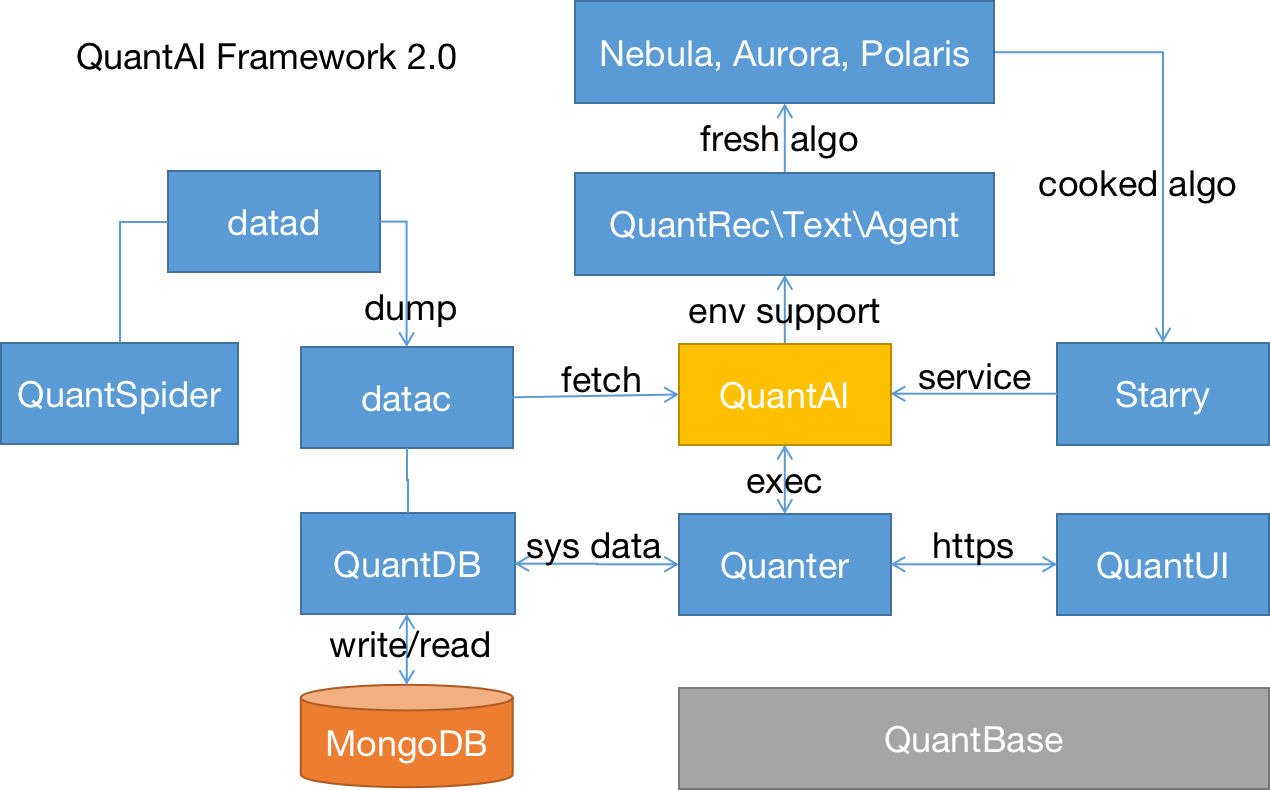
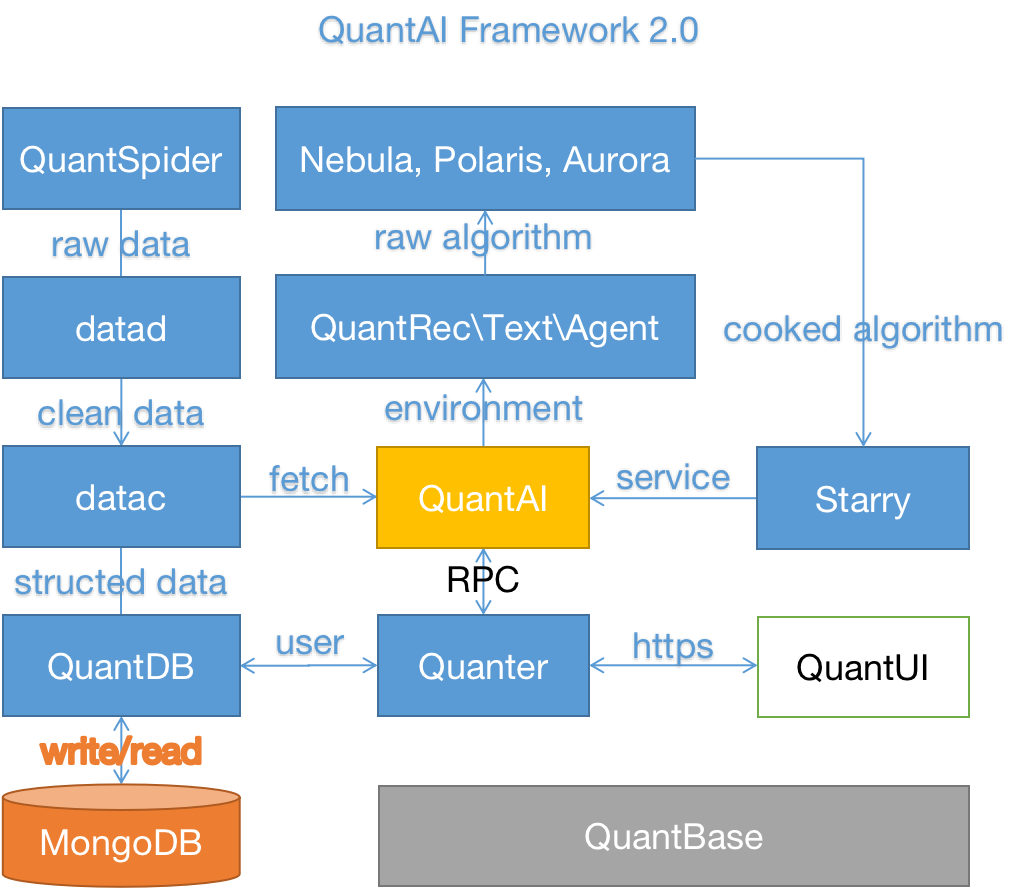
update

diff --git a/README.md b/README.md
@@ -1,6 +1,6 @@
 # QuantAI项目介绍
 
-`QuantAI`项目由`QuantAILab`开发维护。主要目的在于使用最先进的人工智能方法，实现量化交易。
+`QuantAI` 项目由 `QuantAILab` 开发维护，力图通过深度学习相关的方法，实现量化交易。
 
 ## 整体架构
 
@@ -8,66 +8,73 @@
 
 ## QuantAI
 
-`QuantAI` 主要将现有的股票、期货交易逻辑进行封装，提供了完整的回测框架。
-`QuantAI` 中抽象了许多量化交易环境，用于上层算法的开发。
+`QuantAI` 将现有的股票、期货市场交易逻辑进行封装，并且提供了完整的回测框架。
 
 ## QuantRec\Text\Agent
 
-- `QuantRec` 是一个股票推荐算法库，里面集成了许多最新的推荐算法。
+- `QuantRec` 是一个股票推荐算法库，里面集成了深度学习相关的推荐算法。
 - `QuantText` 是一个统一的文本处理库，里面集成了许多自然语言模型。
-- `QuantAgent` 是一个强大的强化学习算法库，里面集成了最新的强化学习算法。
+- `QuantAgent` 是一个全面的深度强化学习算法库，里面集成了最新的强化学习算法。
 
-`QuantAI` 的智能决策行为主要依赖这三个算法库提供支持。值得注意的是这三个算法库本身并不提供训练和预训练的模型。而是仅仅提供了通用的算法模型本身。
+`QuantAI` 的智能决策行为主要依赖这三个算法库提供支持。
+值得注意的是这三个算法库本身并不提供训练和预训练的模型。
+而是仅仅提供了通用的算法模型本身。
 
 ## Nebula, Aurora, Polaris
 
-`Nebula`, `Aurora`, `Polaris` 分别是`QuantText\Agent\Rec`算法库对应的训练平台。这些平台针对具体业务，包含了各种参数调优、模型优化的功能。能够自动化完成调参工作。
+`Nebula`, `Aurora`, `Polaris` 分别是`QuantText\Agent\Rec`算法库对应的训练平台。
+这些平台能够根据具体业务，对初始模型(raw algorithm)进行训练和优化。
 
 ## Starry
 
-`Starry` 是对 `Nebula, Aurora, Polaris` 三个平台提供的预训练模型的综合。将他们封装成标准简洁的API供用户在QuantAI的策略调用中直接使用。
-`Starry` 的封装可以让用户完全屏蔽算法模型本身的任何信息（比如算法模型是如何设计的，最终训练的参数信息是如何等），而仅仅关注于提供的服务本身。
-这可以提高策略等安全性，也可以降低用户的学习成本。
-该模块会作为一个 `Mod` 扩展加入到 `QuantAI` 中。
+`Starry` 会将 `Nebula, Aurora, Polaris` 三个平台所得到的业务模型(cooked algorithm)进行封装。
+`Starry` 可以让用户完全屏蔽底层的算法模型，而仅仅关注提供的服务（如舆论分析，股票涨跌预测）。
+这可以提高策略安全性，降低用户的学习成本。
+该模块会提供一个 `Mod` 扩展，加入到 `QuantAI` 中直接调用。
 
 ## QuantDB
 
-`QuantDB` 基于`pymongo`做了进一步封装，使得上层用户可以屏蔽底层的数据库操作细节。`QuantDB`使得用户可以使用python基本类型一样使用`pymongo`。
+`QuantDB` 基于 `pymongo` 做了进一步封装，使得上层用户可以屏蔽底层的数据库操作细节。
+`QuantDB` 使得用户可以使用python基本类型一样使用 `pymongo`。
 
 ## QuantSpider
 
-`QuantSpider`是一个纯粹的爬虫库，这里面提供了各种爬虫工具，尽可能的屏蔽了不同数据源的处理逻辑（例如html等）。使得用户可以专注于所需要抓去的数据本身。
+`QuantSpider` 是一个纯粹的爬虫库，这里面提供了各种爬虫工具，尽可能的屏蔽了不同数据源的处理逻辑（例如html等），使得用户可以专注于所需要抓取的数据本身。
 
 ## datac
 
-`datac` 基于`QuantDB`的基础上，对金融市场的相关内容做了封装。例如提供了基本的股票、期货等数据类型的相关定义等。用户可以通过`datac`将原始零散的数据组织成合理的数据结构方便存取调用。
-`QuantAI`将通过这个模块调用数据库中的相关数据，`datad`则会使用这个模块将收集到的数据存储到数据库中。
+`datac` 基于 `QuantDB` 的基础上，对金融市场的相关内容做了封装。
+例如提供了基本的股票、期货等数据类型的相关定义等。
+用户可以通过 `datac` 将原始零散的数据组织成合理的数据结构方便存取调用。
+`QuantAI` 将通过这个模块调用数据库中的相关数据，`datad` 则会使用这个模块将收集到的数据存储到数据库中。
 
 ## datad
 
-`datad` 负责所有的数据获取，包括从网络上爬取股票、舆论数据等。也包括将股票数据导入到数据库中，或者从数据库中导出指定格式的数据。
+`datad` 负责所有的数据获取，包括从网络上爬取股票、舆论数据等。
+也包括将股票数据导入到数据库中，或者从数据库中导出指定格式的数据。
 
 ## Quanter
 
-`Quanter`模块是一个web后端。主要提供用户的访问权限控制以及相应的业务逻辑。
-`Quanter`会通过`QuantDB`存储一些用户资料，例如个人信息、策略文件等。
-`Quanter`不会通过`QuantDB`读取任何股票、基金的数据信息。
-所有的数据信息都是由`QuantAI`通过`datac`进行读取的。
+`Quanter` 模块是一个web后端。主要提供用户的访问权限控制以及相应的业务逻辑。
+`Quanter` 会通过 `QuantDB` 存储一些用户资料，例如个人信息、策略文件等，但不会通过 `QuantDB` 读取任何股票、基金的数据信息。
+所有的数据信息都是由 `QuantAI` 通过 `datac` 进行读取的。
 
 ## QuantUI
 
-`QuantUI`是提供的web交互界面。该界面可以实现策略的编写等操作。
-通常情况下，UI界面提供的操作都可以直接通过调用`QuantAI`来实现。
+`QuantUI` 是提供的web交互界面。该界面可以实现策略的编写等操作。
+通常情况下，UI界面提供的操作都可以直接通过调用 `QuantAI` 来实现。
 但是为了方便用户远程编写策略、部署任务，我们还是提供了功能丰富的UI界面。
 
 ## QuantBase
 
 `QuantBase` 是一个最为基础的组件库。里面提供了一些日志记录、参数读取等统一的基础工具。
-该项目的其他模块都可以调用`QuantBase`中提供的工具。
-提供`QuantBase`主要也是为了能够更好的简化代码、统一风格。
+该项目的其他模块都可以调用 `QuantBase` 中提供的工具。
+提供 `QuantBase` 主要也是为了能够更好的简化代码、统一风格。
 
 ## 总的来说
 
-除了需要将数据存储在数据库`MongoDB`外，其余的模块都是可以任由用户在本地搭建的。（因为数据量高达数TB，所以我们没法将数据全量提供给大家用于本地部署。）
+除了需要将数据存储在数据库`MongoDB`外，其余的模块都是可以任由用户在本地搭建的。
+（因为数据量高达数TB，所以我们没法将数据全量提供给大家用于本地部署。）
 
-大家也可以自己重新搭建一个本地的数据库去抓取自己的数据，但是我们不建议这么做。数据的处理十分耗费精力，所以还是建议使用我们提供的数据源。
+大家也可以自己重新搭建一个本地的数据库去抓取自己的数据，但是我们不建议这么做。
+数据的处理十分耗费精力，所以还是建议使用我们提供的数据源。
